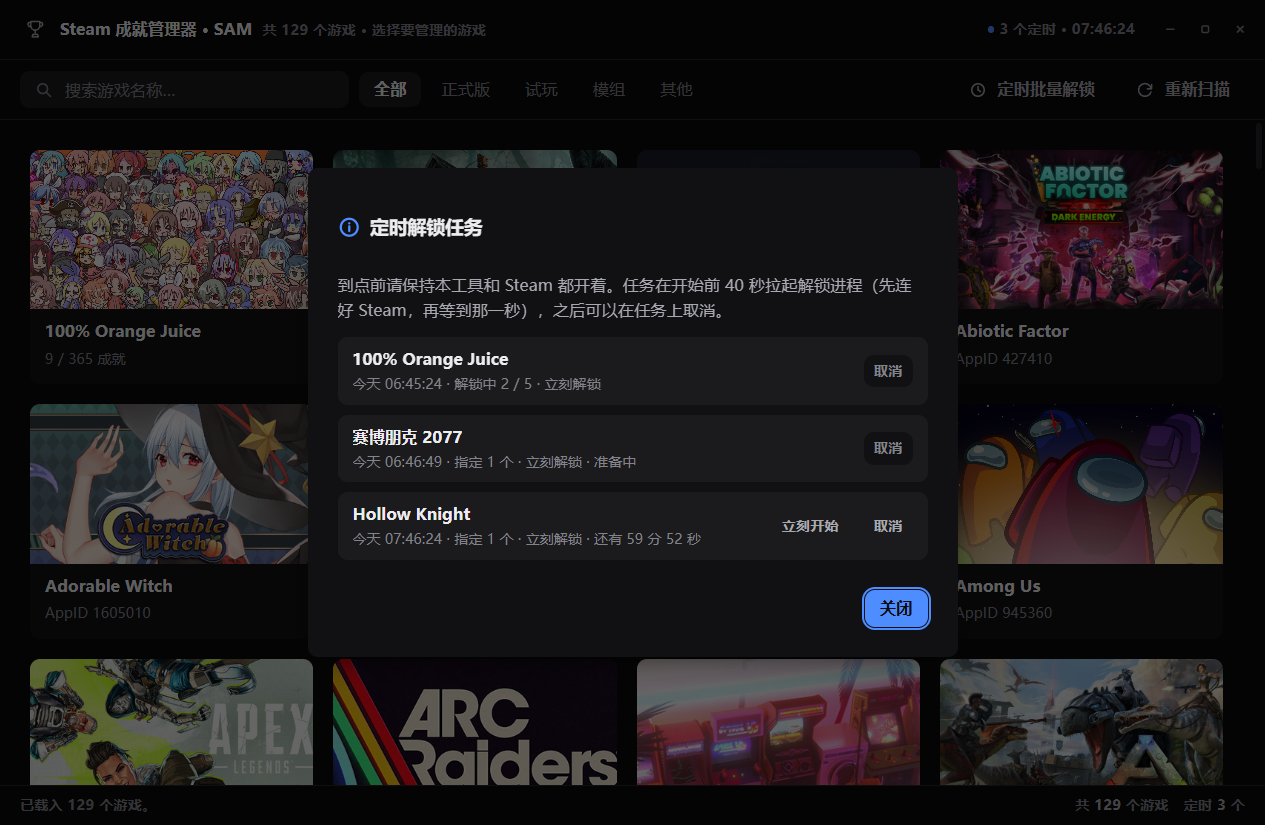
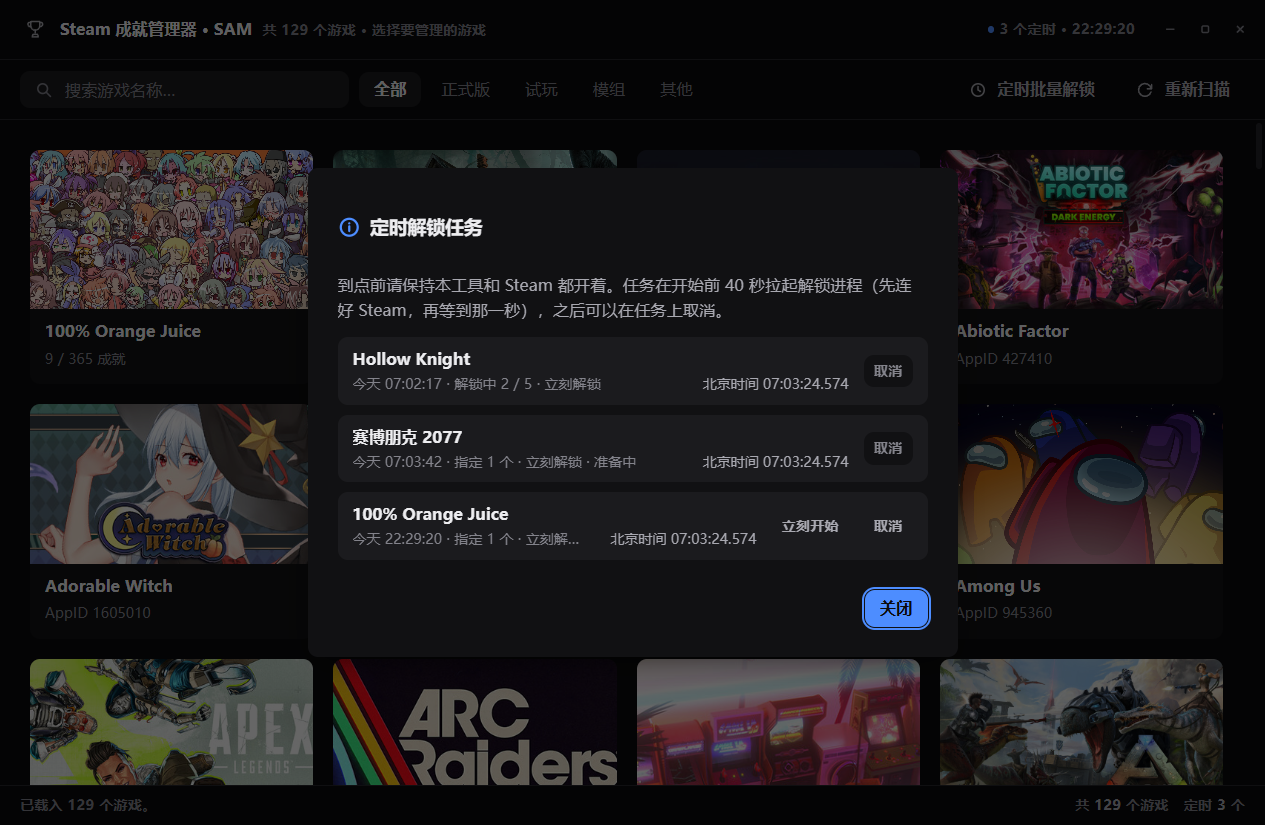
feat: 任务列表显示实时北京时间（毫秒）+ 精确到秒的倒计时（v1.9.5）

diff --git a/ui/app.js b/ui/app.js
@@ -1334,6 +1334,10 @@
       window.clearInterval(modalState.tick);
       modalState.tick = null;
     }
+    if (modalState.clock) {
+      window.clearInterval(modalState.clock);
+      modalState.clock = null;
+    }
     modalState = null;
     els.modalRoot.innerHTML = '';
     setHidden(els.modalRoot, true);
@@ -2239,6 +2243,37 @@
     return '还有 ' + fmtGap(diff);
   }
 
+  // 实时北京时间（毫秒）：北京没有夏令时，直接按 UTC+8 算，不依赖系统时区设置。
+  function bjParts(ms) {
+    var d = new Date((typeof ms === 'number' ? ms : Date.now()) + 28800000);
+    return {
+      hour: d.getUTCHours(),
+      minute: d.getUTCMinutes(),
+      second: d.getUTCSeconds(),
+      ms: d.getUTCMilliseconds()
+    };
+  }
+
+  function three(n) {
+    return n < 10 ? '00' + n : (n < 100 ? '0' + n : String(n));
+  }
+
+  function bjClockMs(ms) {
+    var t = bjParts(ms);
+    return two(t.hour) + ':' + two(t.minute) + ':' + two(t.second) + '.' + three(t.ms);
+  }
+
+  // 任务列表的倒计时：精确到秒的 时:分:秒（「还有 15:26:03」）。毫秒交给右边的实时时钟，
+  // 倒计时再带毫秒就太长了，一行放不下。
+  function countdownPrecise(date) {
+    var left = date.getTime() - Date.now();
+    if (left <= 0) return '即将开始';
+    var h = Math.floor(left / 3600000);
+    var m = Math.floor((left % 3600000) / 60000);
+    var s = Math.floor((left % 60000) / 1000);
+    return '还有 ' + two(h) + ':' + two(m) + ':' + two(s);
+  }
+
   // 选项组：定时解锁的几个弹窗共用（随机解锁那个弹窗有自己的闭包版本，不动它）
   function optGroupHtml(key, label, items, activeIdx) {
     var h = ['<div class="opt-group" data-key="' + key + '">'];
@@ -2431,8 +2466,9 @@
     if (typeof job.minGap === 'number' && typeof job.maxGap === 'number') {
       bits.push((!job.minGap && !job.maxGap) ? '立刻解锁' : '间隔 ' + fmtGap(job.minGap) + '–' + fmtGap(job.maxGap));
     }
-    if (phase === 'waiting') bits.push(countdownText(d));
+    if (phase === 'waiting') bits.push(countdownPrecise(d));
     else if (phase === 'heating') bits.push('准备中');
+    // 倒计时后面接的是实时北京时间（毫秒），由 refreshScheduleClocks 每 50ms 单独刷新。
     else if (phase === 'overdue') bits.push('等待结果…');
     return bits.join(' · ');
   }
@@ -2451,7 +2487,13 @@
     var h = ['<div class="sch-job">'];
     h.push('<div class="sch-job__main">');
     h.push('<span class="sch-job__name">' + esc(job.gameName || ('App ' + job.appId)) + '</span>');
-    h.push('<span class="sch-job__meta" data-meta="' + esc(job.id) + '">' + esc(jobMetaText(job)) + '</span>');
+    // 第二行：任务信息 + 实时北京时间（精确到毫秒）。定时解锁是按秒触发的，
+    // 有个跑毫秒的钟才好对表，所以钟就放在原来显示倒计时的位置。
+    h.push('<span class="sch-job__meta">');
+    h.push('<span data-meta="' + esc(job.id) + '">' + esc(jobMetaText(job)) + '</span>');
+    h.push('<span class="sch-job__clock" data-clock="' + esc(job.id) +
+      '" title="北京时间（UTC+8），实时">' + esc('北京时间 ' + bjClockMs()) + '</span>');
+    h.push('</span>');
     h.push('</div>');
     if (phase === 'waiting') {
       h.push('<button type="button" class="btn btn--sm btn--ghost" data-role="run" data-id="' +
@@ -2464,7 +2506,8 @@
     return h.join('');
   }
 
-  // 只刷新 meta 文本，不重建 DOM：重建会打断悬停/焦点，也会让按钮闪一下。
+  // 只刷新文本，不重建 DOM：重建会打断悬停/焦点，也会让按钮闪一下。
+  // meta（倒计时 / 进度）每秒算一次就够；北京时间要显示毫秒，单独按 50ms 刷。
   function refreshScheduleListMeta() {
     if (!modalState || modalState.kind !== 'scheduleList') return;
     var nodes = modalState.el.querySelectorAll('[data-meta]');
@@ -2472,11 +2515,20 @@
       var id = nodes[i].getAttribute('data-meta');
       for (var j = 0; j < state.schedule.jobs.length; j++) {
         if (state.schedule.jobs[j].id === id) {
-          nodes[i].textContent = jobMetaText(state.schedule.jobs[j]);
+          var text = jobMetaText(state.schedule.jobs[j]);
+          if (nodes[i].textContent !== text) nodes[i].textContent = text;
           break;
         }
       }
     }
+  }
+
+  function refreshScheduleClocks() {
+    if (!modalState || modalState.kind !== 'scheduleList') return;
+    var clocks = modalState.el.querySelectorAll('[data-clock]');
+    if (clocks.length === 0) return;
+    var text = '北京时间 ' + bjClockMs();
+    for (var i = 0; i < clocks.length; i++) clocks[i].textContent = text;
   }
 
   function openScheduleListModal() {
@@ -2551,9 +2603,11 @@
     els.modalRoot.innerHTML = '';
     els.modalRoot.appendChild(el);
     setHidden(els.modalRoot, false);
-    modalState = { el: el, prevFocus: prevFocus, kind: 'scheduleList', tick: 0 };
-    // 每秒刷新一次 meta：倒计时、准备中、解锁中 x/y 都靠它保持新鲜。
-    modalState.tick = window.setInterval(refreshScheduleListMeta, 1000);
+    modalState = { el: el, prevFocus: prevFocus, kind: 'scheduleList', tick: 0, clock: 0 };
+    // 250ms 刷新一次 meta：倒计时带秒，得跳得勤一点才像「实时」。
+    modalState.tick = window.setInterval(refreshScheduleListMeta, 250);
+    // 北京时间精确到毫秒，50ms 刷一次：再快屏幕上也是跳着走的，没必要。
+    modalState.clock = window.setInterval(refreshScheduleClocks, 50);
     window.setTimeout(function () {
       var close = el.querySelector('[data-role="close"]');
       if (close && close.focus) close.focus();
@@ -3973,7 +4027,7 @@
   }
 
   window.SAM = {
-    version: '1.9.4',
+    version: '1.9.5',
     handleEvent: handleEvent,
     mock: enterMock,
     getState: function () {

diff --git a/ui/app.css b/ui/app.css
@@ -1822,6 +1822,8 @@ dt {
 }
 
 .sch-job__name {
+  min-width: 0;
+  flex: 0 1 auto;
   font-size: var(--t-body);
   font-weight: 600;
   color: var(--text-1);
@@ -1830,13 +1832,37 @@ dt {
   text-overflow: ellipsis;
 }
 
+
+
 .sch-job__meta {
+  display: flex;
+  align-items: baseline;
+  gap: var(--s2);
+  min-width: 0;
   font-size: var(--t-micro);
   letter-spacing: .02em;
   color: var(--text-3);
   white-space: nowrap;
+}
+
+/* 信息文字自己截断，右边那口钟永远完整显示 */
+.sch-job__meta > [data-meta] {
+  min-width: 0;
   overflow: hidden;
   text-overflow: ellipsis;
+  white-space: nowrap;
+}
+
+/* 实时北京时间（毫秒）：等宽数字，避免每秒跳动时整行抖动 */
+.sch-job__clock {
+  flex: none;
+  margin-left: auto;
+  padding-left: var(--s2);
+  font-size: var(--t-micro);
+  letter-spacing: .02em;
+  color: var(--text-2);
+  font-variant-numeric: tabular-nums;
+  white-space: nowrap;
 }
 
 /* 批量选游戏：列表自己滚，弹窗正文不再长高 */

diff --git a/使用说明.md b/使用说明.md
@@ -39,7 +39,7 @@
 | 随机时间解锁 | 工具栏左侧的「随机时间解锁」按钮。**两种模式**：「按数量随机」（默认）或「指定成就」——选后者会列出当前游戏还能解锁的成就，带搜索框与全选 / 清空，勾几个就按顺序解锁几个。按数量随机时：解锁数量可选「全部剩余」，或剩余数的 1/4、1/2、3/4（按钮上直接显示换算后的成就个数）；「解锁范围」可选全部成就，或只解锁稀有成就（全服解锁率 < 1% / < 5% / < 10% 三档，括号里是当前还能解锁的个数）。间隔可选预设快速 5–15 秒 / 标准 15–45 秒 / 缓慢 60–180 秒，或选「自定义」后分别填写**天 / 小时 / 分钟 / 秒**四个数值来指定最短与最长间隔（单个间隔上限 7 天），弹窗会实时算出整轮大约需要多久（按「首个延迟 + (数量 − 1) × 间隔」给出下限–上限区间，三档预设与自定义共用同一套算法），并说明过程中可以随时停止、已解锁的不会回退。程序按随机间隔逐个真实解锁，每个成就拿到各自的解锁时间。进度条实时显示，点「停止」或按 Esc 可中止（已解锁的不回滚） |
 | 定时解锁 | 把解锁时间定在某个具体的**时:分:秒**（时 / 分 / 秒三个输入框直接填数字，秒可以填 0–59 任意值）：游戏页工具栏「定时解锁」→ 选「解锁哪些成就」（**按数量随机**：选范围与数量由后台自己挑；**指定成就**：在列表里勾选具体成就，带搜索框与全选 / 清空，按勾选顺序依次解锁）→ 选间隔（**立刻解锁** / 快速 5–15 秒 / 标准 15–45 秒 / 缓慢 60–180 秒，默认立刻解锁）→ 把「解锁时刻」填成想要的时刻 →「排入定时」。到点前 40 秒程序会拉起一个隐藏的解锁进程：它先连好 Steam、备好候选成就，再等到那一秒精确开跑，然后按随机间隔逐个真实解锁，每个成就仍由 Steam 记下各自的真实时间。**到点时本工具必须还开着**（最小化、隐藏待命都行，进程不能退出）且 Steam 在运行，否则任务不会执行；任务存在程序目录 `schedule\` 下，关掉再开仍在 |
 | 定时批量解锁 | 游戏库工具栏的「定时批量解锁」：勾选任意多个游戏 + 一个共同时刻，它们会在**同一秒**各自开始解锁（每个游戏一个独立后台进程并行，互不阻塞）。解锁内容有两种模式：**按数量随机**（每个游戏各解锁 N 个）或**指定成就** —— 选后者先挑游戏，再逐个游戏分别勾选它要解锁的成就（顶部游戏按钮显示各勾了几个，点着切换着配）。成就列表读的是本地缓存，没打开过的游戏会提示先打开一次。适合「22:22:00 把 A 游戏的这 3 个、B 游戏的那 2 个一起解锁」这种编排 |
-| 定时任务列表 | 有待执行任务时标题栏左侧出现「N 个定时 · HH:mm」的 chip，点开可看每条任务的游戏、时刻、解锁数量、间隔与当前状态（还有多久 / 准备中 / 解锁中 2 / 5 / 等待结果），列表每秒自动刷新。还没到点的任务可以点「立刻开始」跳过等待、也可以「取消」；任务一旦进入准备中或解锁中，取消按钮会置灰（解锁进程已经在写了，删任务文件也拦不住它）。任务跑完会立刻从列表里消失；状态栏同时显示任务数量 |
+| 定时任务列表 | 有待执行任务时标题栏左侧出现「N 个定时 · HH:mm」的 chip，点开可看每条任务的游戏、时刻、解锁数量、间隔与当前状态（还有 15:24:31 / 准备中 / 解锁中 2 / 5 / 等待结果），每条任务右侧还有一个**实时北京时间（精确到毫秒）**的钟，方便对表；倒计时精确到秒并持续走动。还没到点的任务可以点「立刻开始」跳过等待、也可以「取消」；任务一旦进入准备中或解锁中，取消按钮会置灰（解锁进程已经在写了，删任务文件也拦不住它）。任务跑完会立刻从列表里消失；状态栏同时显示任务数量 |
 | 受保护项 | 权限位含保护的成就自动跳过并提示（与原版一致） |
 | 搜索筛选 | 游戏搜索 + 类型筛选；成就搜索 + 全部 / 已解锁 / 未解锁 / 稀有 |
 | 返回游戏库 | 游戏界面左上角「← 游戏库」按钮；Esc、标题栏左上角奖杯图标也可返回。返回时游戏库窗口是**唤回**而不是重建（进入游戏后它只是隐藏待命），所以几乎瞬间就回到你离开时的列表；随后才断开该游戏的 Steam 管道，游戏状态变为未运行（不再占着「运行中」） |

diff --git a/README.md b/README.md
@@ -10,7 +10,7 @@
 一个把「Steam 成就 / 统计」变成可视化勾选列表的小工具：点开游戏 → 看到全部成就卡片 → 勾选 → 保存，改写的是
 **你在 Steam 客户端本地的用户数据**（不上传、不联网写库）。
 
-当前版本 **v1.9.4**：定时任务跑完会**立刻从列表里消失**（不会再卡在「进行中」），列表每秒刷新状态、可以直接点「立刻开始」，已经开始的任务也不会再让你白点「取消」。
+当前版本 **v1.9.5**：任务列表里每个任务都带一个**实时北京时间（精确到毫秒）**，倒计时精确到秒并持续走动 —— 定时解锁是按秒触发的，有个跑毫秒的钟才好对表。
 
 双仓同步发布：[GitHub](https://github.com/Knight003300/SAM-Modern) · [Gitee](https://gitee.com/arasy/SAM-Modern)（国内访问更快）。
 
@@ -160,6 +160,14 @@ screenshots/            界面截图
 - `vendor/` 里是上游源码快照，不参与构建（构建只编译 `src/` + `vendor/.../SAM.API`）。
 
 ## 更新日志
+
+### v1.9.5
+
+- **任务列表显示实时北京时间（精确到毫秒）**：每条任务的信息行右侧多了一个走毫秒的北京时间钟（如 `北京时间 07:03:24.574`），按 UTC+8 直接换算，不受系统时区设置影响，每 50ms 刷新一次。定时解锁是按秒触发的，对表时不用再切出去看时间。
+- **倒计时精确到秒并持续走动**：还没到点的任务原来显示「还有 15 小时 26 分」，一分钟才变一次、看着像卡住了；现在显示成 `还有 15:24:31` 并每 250ms 刷新，秒数一直在跳。
+- 任务信息行超长时自己截断省略，右侧那口钟始终完整显示（不会被挤掉）。
+- 关闭任务列表时会把这两个定时刷新一起清掉，不会在后台空转。
+- 版本号升到 1.9.5。
 
 ### v1.9.4
 
